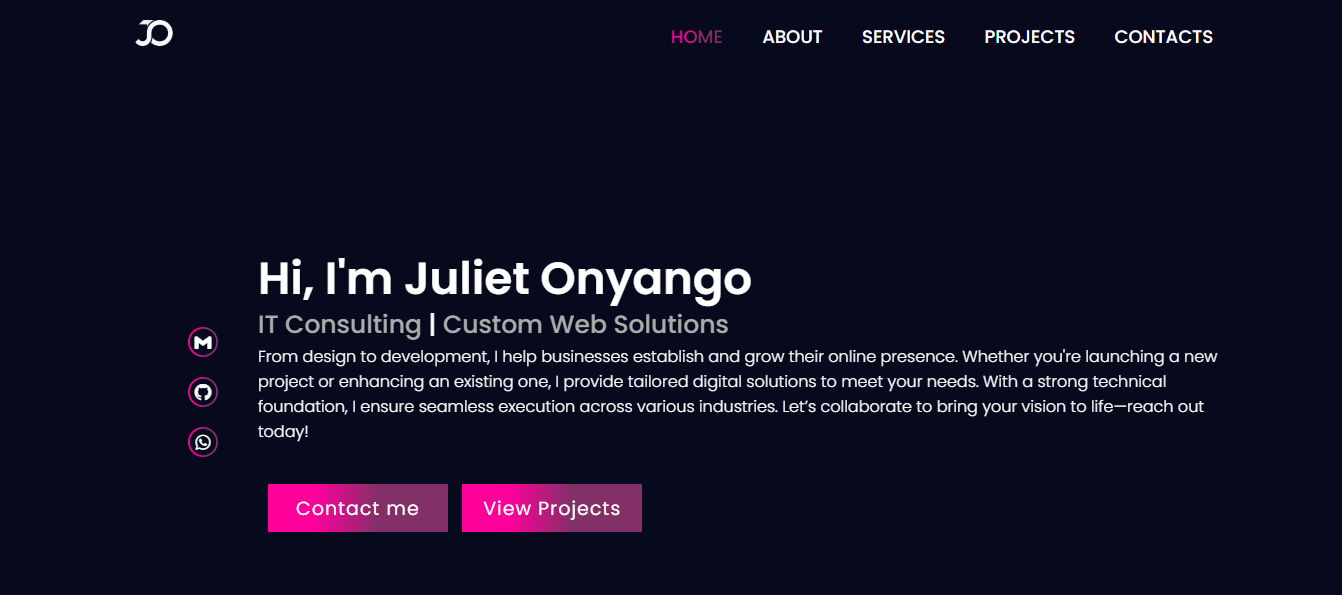
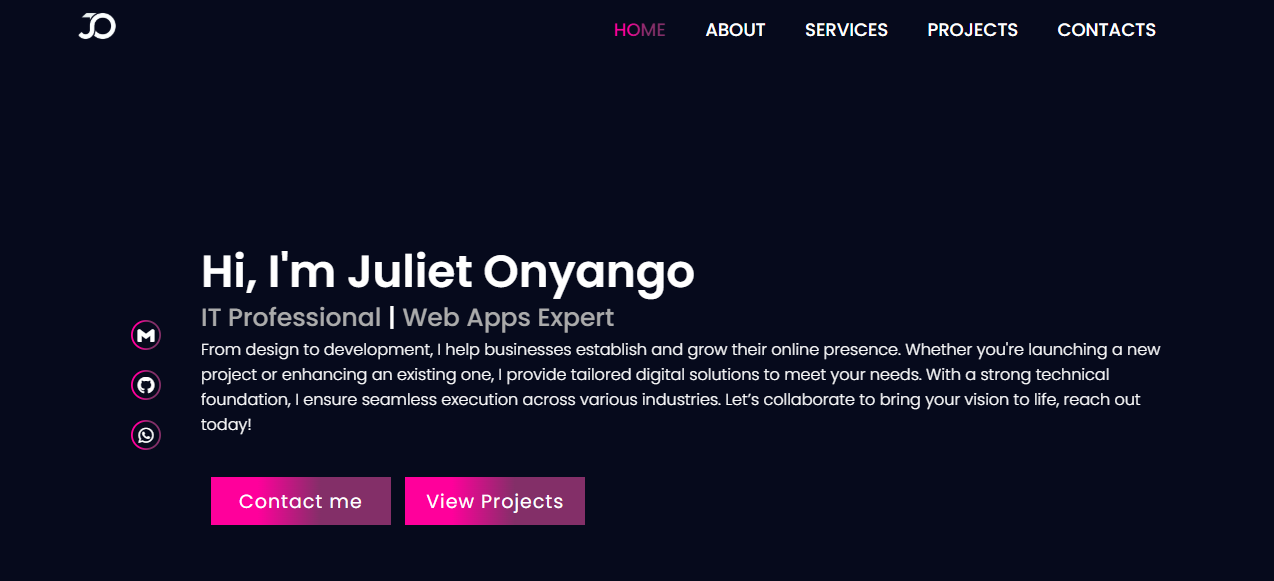
edits

diff --git a/index.html b/index.html
@@ -12,7 +12,7 @@
     <meta property="og:image:type" content="image/png" />
     <meta property="og:image:width" content="400" />
     <meta property="og:image:height" content="300" />
-    <meta property="og:image:alt" content="Juliet Onayango Portfolio Landing page" />
+    <meta property="og:image:alt" content="Juliet Onyango Portfolio Landing page" />
 	<meta property="og:url" content="https://julietonyango.netlify.app">
 	<meta http-equiv="Content-Language" content="en-us">
     <title>Juliet Onyango | Portfolio</title>
@@ -35,8 +35,6 @@
             <a href="#projects">Projects</a>
             <a href="#contacts">Contacts</a>
         </nav>
-
-
     </header>
     <section class="home" id="home">
         <div class="home-socials">
@@ -48,7 +46,7 @@
             <h1>Hi, I'm Juliet Onyango</h1>
             <h3>IT Professional <span style="color:#fff";>| </span>Web Apps Expert</h3>
             <p>
-                From design to development, I help businesses establish and grow their online presence. Whether you're launching a new project or enhancing an existing one, I provide tailored digital solutions to meet your needs. With a strong technical foundation, I ensure seamless execution across various industries. Let’s collaborate to bring your vision to life—reach out today!
+                From design to development, I help businesses establish and grow their online presence. Whether you're launching a new project or enhancing an existing one, I provide tailored digital solutions to meet your needs. With a strong technical foundation, I ensure seamless execution across various industries. Let’s collaborate to bring your vision to life, reach out today!
             </p>
             <a href="#contacts" class="btn">Contact me</a>
             <a href="#projects" class="btn">View Projects</a>
@@ -62,7 +60,7 @@
         <div class="container">
             <div class="row">
                 <div class="col-lg-8">
-                    <p>I am Juliet Onyango, an IT specialist with over five years of experience in software development and consultancy. Holding a Bachelor's degree in Information Technology, I am passionate about leveraging technology to create innovative solutions that drive business efficiency.</p><br>
+                    <p>I am Juliet Onyango, an IT specialist with experience in software development and consultancy. Holding a Bachelor's degree in Information Technology, I am passionate about leveraging technology to create innovative solutions that drive business efficiency.</p><br>
                      <p>My growing interest in the digital space led me to transition into this dynamic field, where I have successfully managed web projects and streamlined digital transformation for businesses. With expertise in software development and IT consulting, I excel at optimizing processes and solving complex challenges.</p><br>
                      <p>While Nairobi is my base, I am open to remote opportunities and enjoy collaborating with diverse teams globally to deliver impactful digital solutions.</p> <br><br>
                  </div>
@@ -76,7 +74,7 @@
                         <ul class="ul-skills">
                             <li><span>Programming: </span> PHP, Laravel, Javascript</li>
                             <li><span>Project Management: </span> Agile, Scrum, PRINCE2</li>
-                            <li><span>Version Control: </span> Git, GitHub, Bitbucket</li>
+                            <li><span>Version Control: </span> Git, GitHub</li>
                             <li><span>Design & CMS: </span> WordPress, Figma, Canva</li>
                             <li><span>Digital Marketing: </span> SEO, Google Ads, Social Media Marketing</li>
                         </ul>
@@ -110,22 +108,19 @@
                         <i class="bi bi-braces"></i>
                         <h2>Custom Web Application Development</h2>
                         <p>
-                            I create scalable, secure and user-friendly web applications tailored to your unique business needs. From CRMs to e-commerce platforms, I’ll help streamline operations and deliver measurable results. </p>
+                            I create scalable, secure and user-friendly web applications tailored to your unique business needs. From simple to complex applications, I’ll help streamline operations and deliver measurable results. </p>
                     </div>
                     <div>
                        
                         <i class='bx bx-cart-add'></i>
                         <h2>Point of Sale (POS) Systems</h2>
-                       <p>
-                        <p class="m-0">I design efficient POS systems for seamless transactions, inventory management, and real-time analytics. Whether it’s for retail or restaurants, I’ll help you simplify and optimize your operations.</p>
-
-                        </p>
+                        <p class="m-0">I design efficient POS systems for seamless transactions, inventory management and real-time analytics. Whether it’s for retail or restaurants, I’ll help you simplify and optimize your operations.</p>
                     </div>
                     <div>
                         <i class="bi bi-code-slash"></i>
                         <h2>Web Design and Branding</h2>
                          <p>
-                            I craft modern, responsive websites that captivate visitors and drive conversions. Your online presence will reflect your brand’s best, leaving a lasting impression.
+                            I craft modern, responsive websites that captivate visitors and drive conversions. Your online presence will reflect your brand’s best attributes, leaving a lasting impression.
                         </p>
                     </div>
 
@@ -135,7 +130,7 @@
                         <i class="bi bi-calendar4-week"></i>
                         <h2>IT Consulting and Strategy</h2>
                         <p>
-                            I provide expert IT consulting to simplify your technology decisions. From system optimization to cloud migration, I’ll guide you toward innovative, growth-focused solutions.
+                            I provide expert IT consulting to simplify your technology decisions. From system optimization to cloud migration, I’ll guide you toward innovative and growth-focused solutions.
                         </p>
                     </div>
                     <div>
@@ -266,7 +261,7 @@
                         <div class="social-icons">
                             <a href="mailto:julietonygo@gmail.com" target="_blank"><i class='bx bxl-gmail'></i></a>
                             <a href="https://github.com/jltamolo" target="_blank"><i class='bx bxl-github'></i></a>
-                            <a href="https://wa.me/+254729057520" target="_blank"><i class='bx bxl-whatsapp'></i></a>
+                            <a href="https://wa.me/25477396596" target="_blank"><i class='bx bxl-whatsapp'></i></a>
 
                         </div>
                     </div>
@@ -330,6 +325,16 @@
             })
             .catch(error => console.error('Error!', error.message))
         })
+      </script>
+      <script>
+        function openModal(imageSrc) {
+    document.getElementById("fullImage").src = imageSrc;
+    document.getElementById("imageModal").style.display = "flex";
+}
+
+function closeModal() {
+    document.getElementById("imageModal").style.display = "none";
+}
       </script>
     
    <!-- <script>
